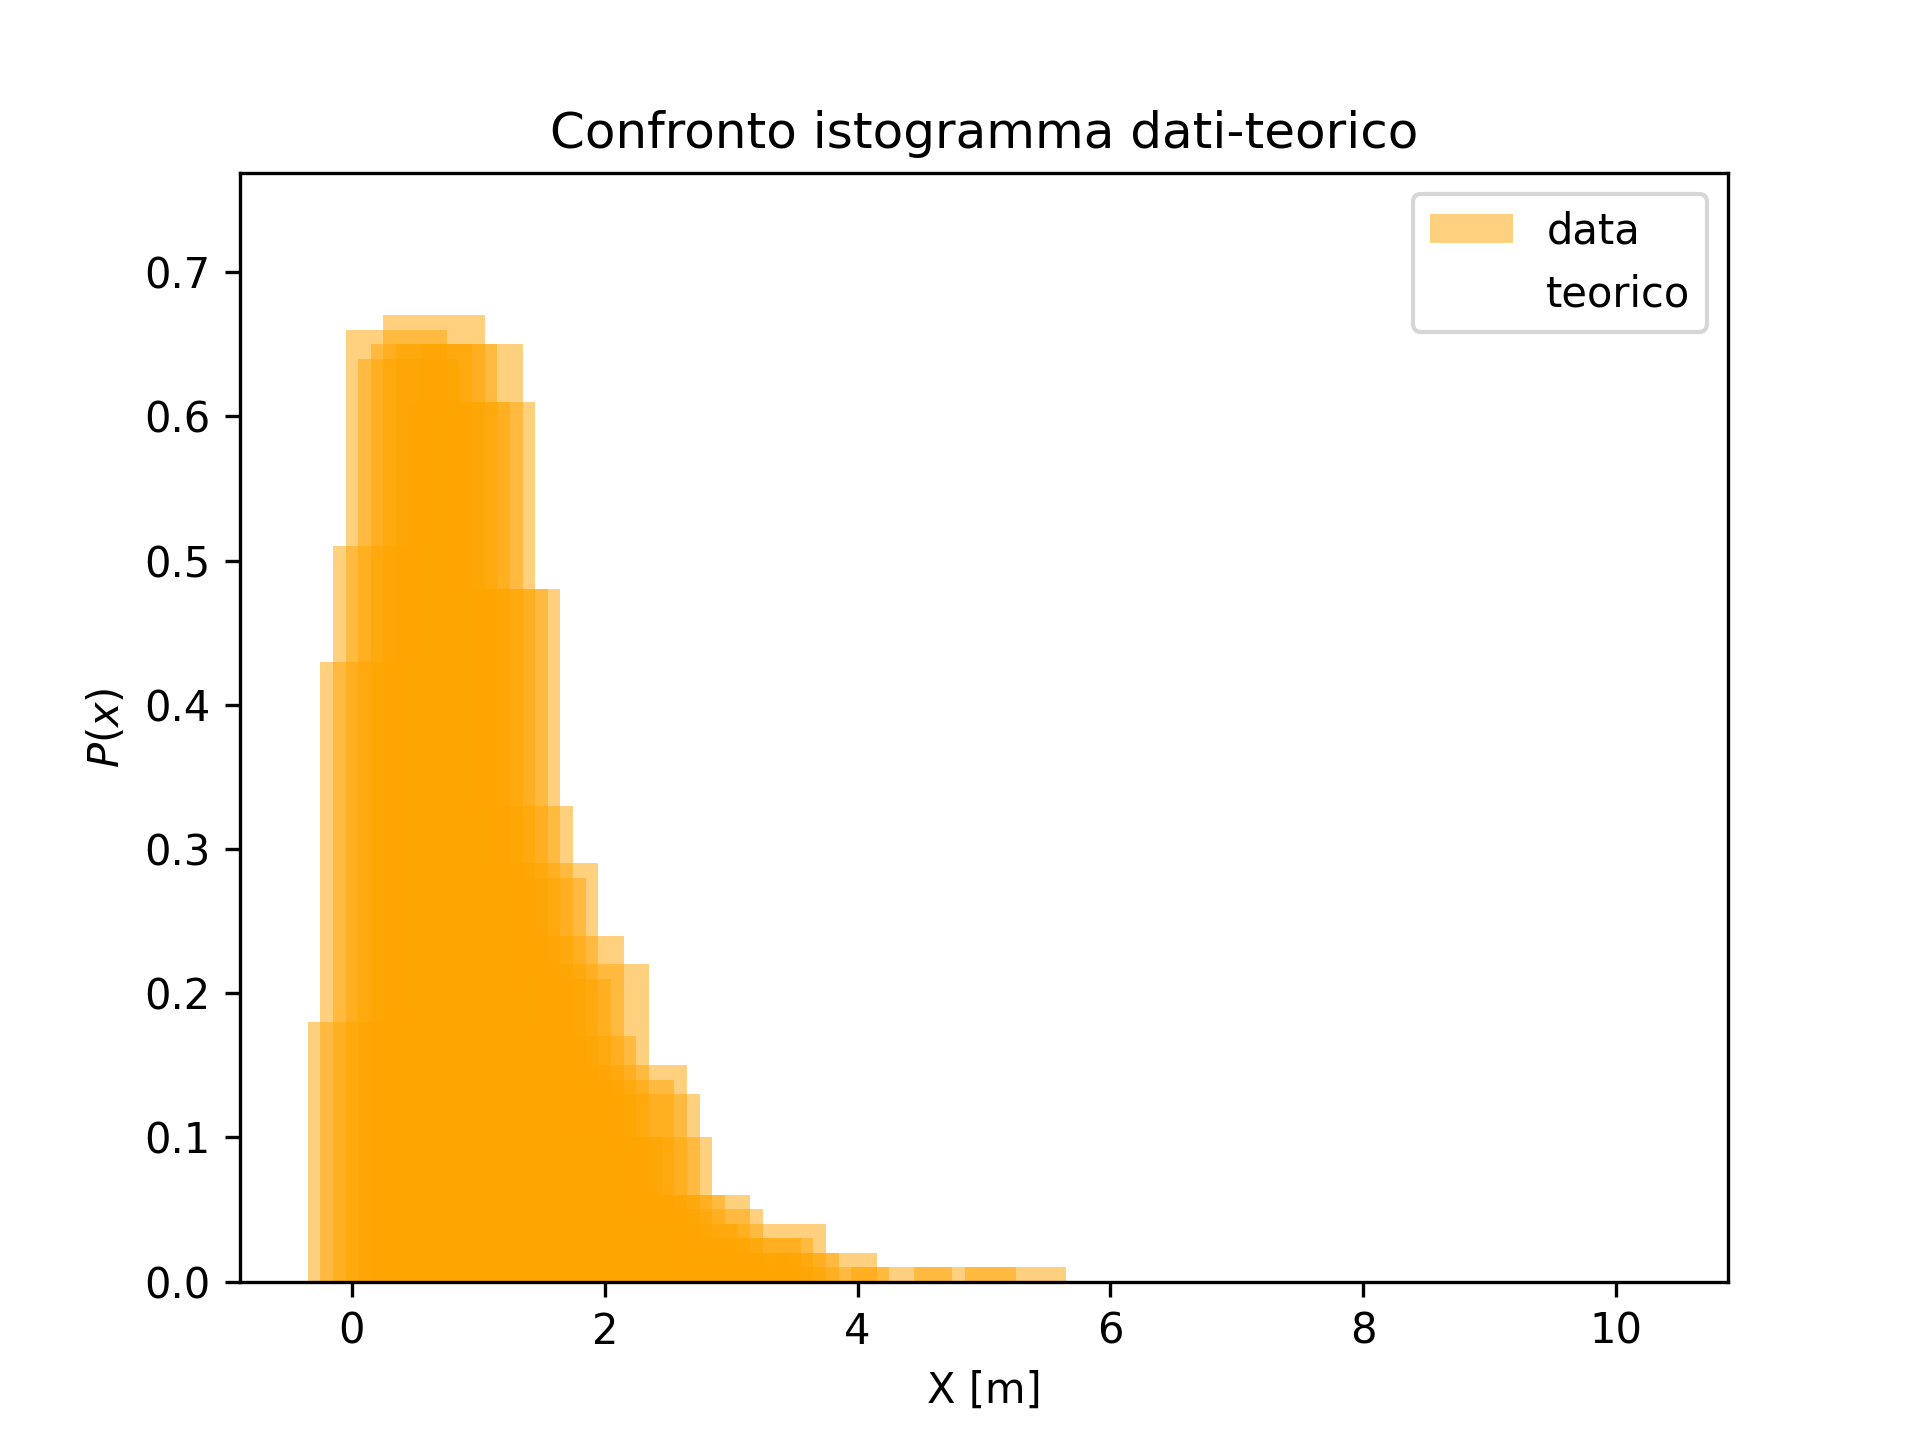
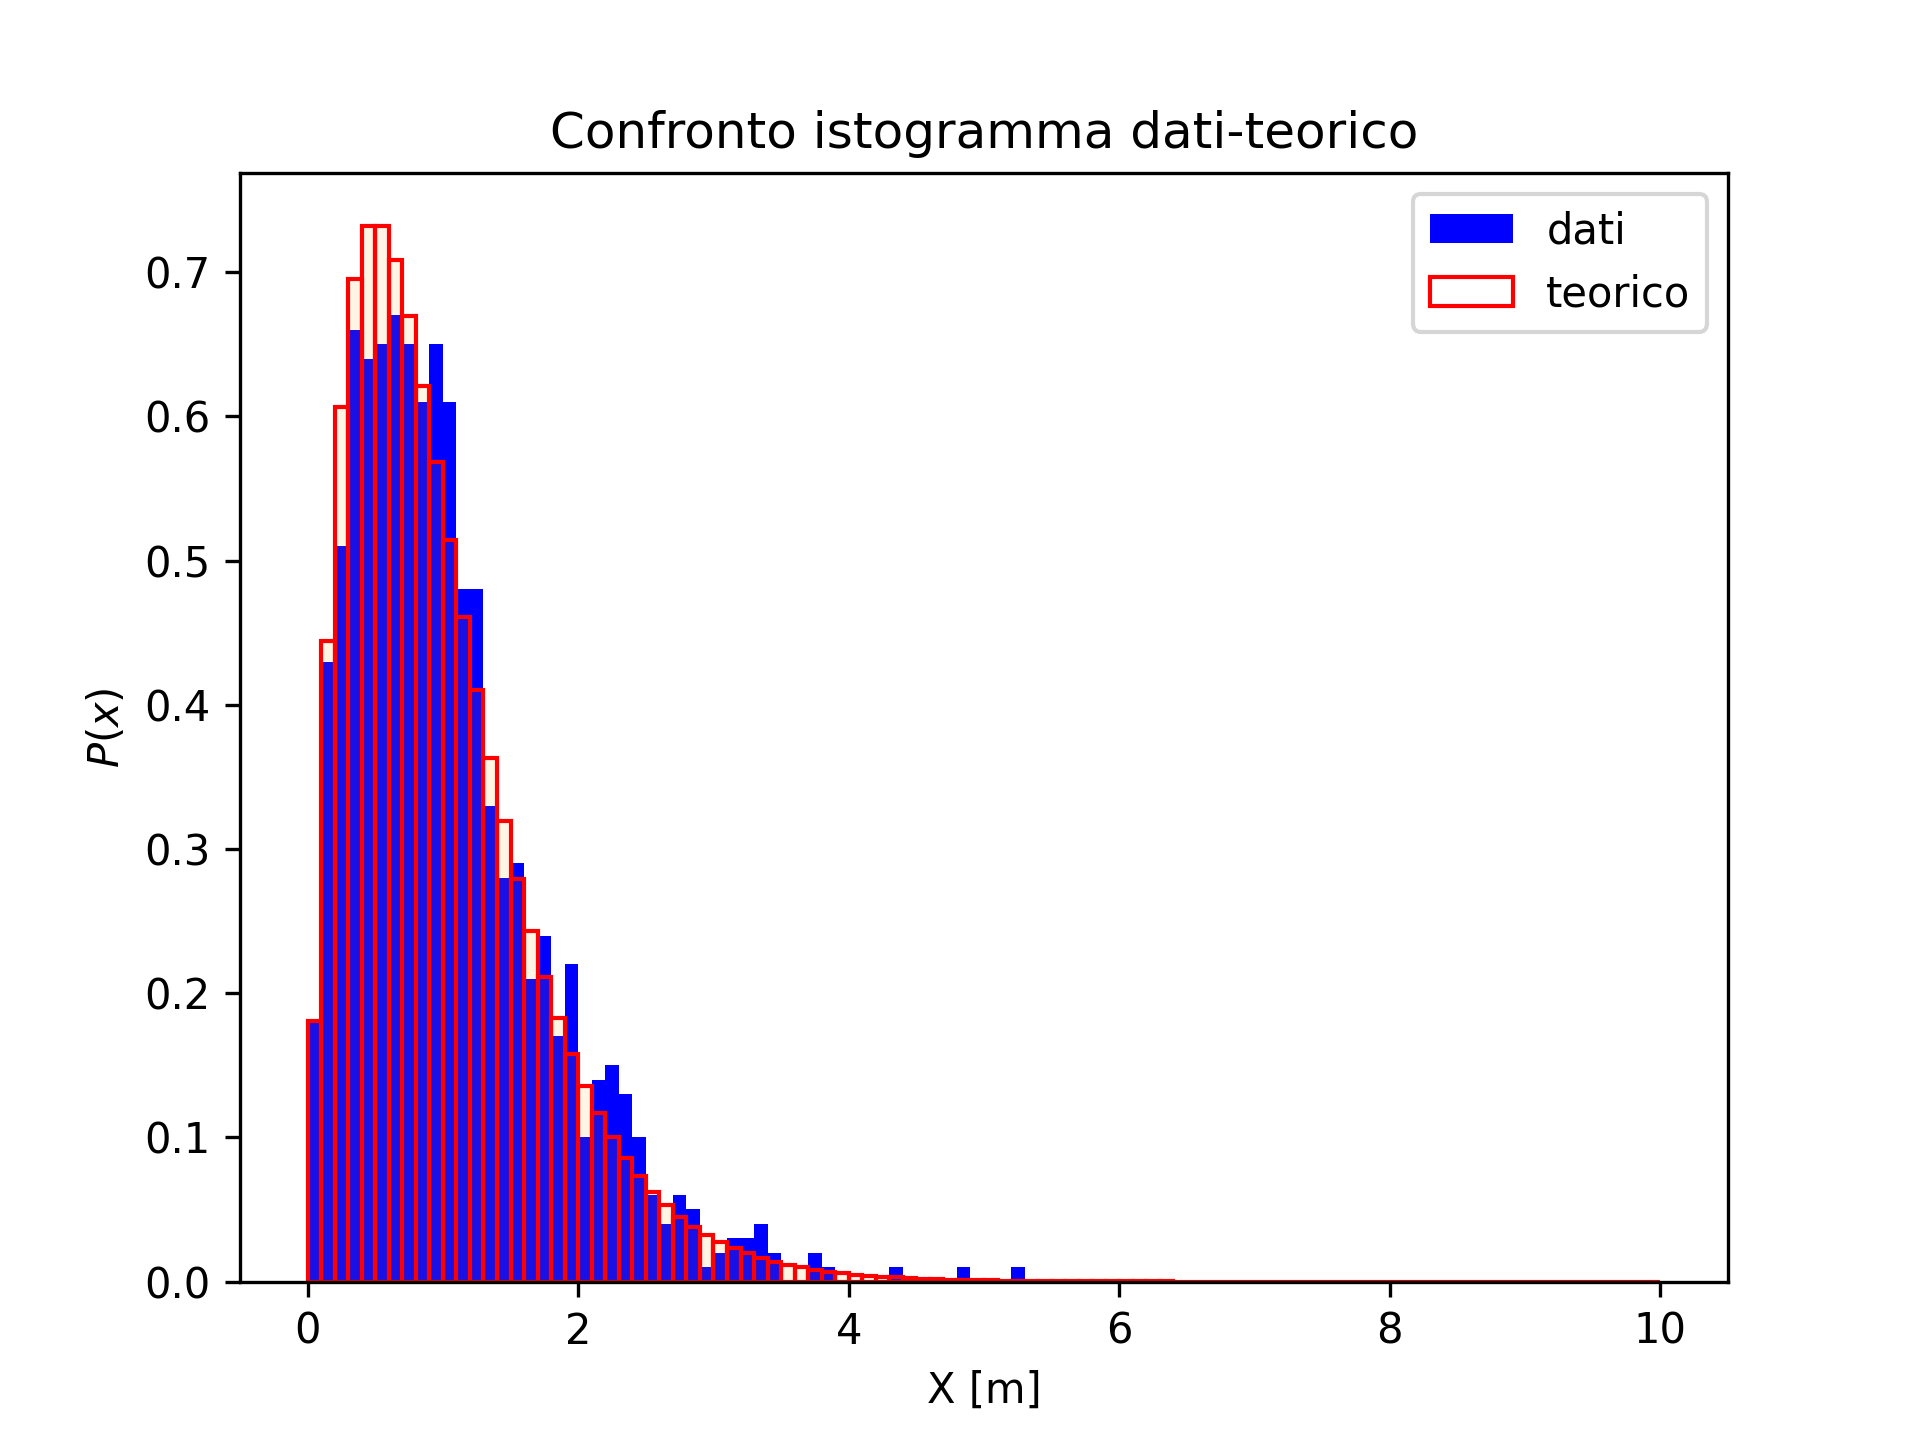
corretto montecarlo

diff --git a/MonteCarlo/montecarlo.c b/MonteCarlo/montecarlo.c
@@ -2,9 +2,12 @@
 #include <time.h>
 #include <stdio.h>
 #include <math.h>
+#include <fcntl.h>
+#include <unistd.h>
 
 #define TRUE  1
 #define FALSE 0
+#define VERBOSE
 
 #define Xmax 10
 #define Nmin 1000
@@ -50,14 +53,21 @@ int main(int narg, char * * argv){
 		printf("Reinsert N value:\t");
 		scanf("%i",&N);
 	}
-	srand48(time(NULL));
+
+	int urandom_fd=open("/dev/urandom",O_RDONLY);
+	unsigned long seed;
+	(urandom_fd!=-1)? read(urandom_fd,&seed,sizeof(long)) : (seed=time(NULL));	
+	srand48(seed);
+
 	double x,P;
 	int histo[M]={0};
 	double histoNorm[M];
 	for(int i=0; i<N; i++){
 		x=hitAndMiss(lam);
 		P=pdist(lam,x);
-		if(i<TOprint) printf("%.5lf %.5lf\n",x,P);
+		#ifdef VERBOSE
+			if(i<TOprint) printf("%.5lf %.5lf\n",x,P);
+		#endif
 		for(int j=0; j<M; j++){
 			if(x>=j*dx && x<(j+1)*dx){
 			       	histo[j]++;

diff --git a/MonteCarlo/montecarlo.py b/MonteCarlo/montecarlo.py
@@ -7,8 +7,10 @@ fig,ax=plt.subplots()
 ax.set_title("Confronto istogramma dati-teorico")
 ax.set_xlabel("X [m]")
 ax.set_ylabel("$P(x)$")
-ax.bar(X,Y,label="data",color="orange",alpha=0.5)
-ax.bar(X,Yth,label="teorico",alpha=0,edgecolor="red")
+width=(X[1]-X[0])
+ax.bar(X,Y,label="dati",color="blue",width=width)
+ax.bar(X,Yth,color="orange",alpha=0.1,width=width)
+ax.bar(X,Yth,label="teorico",fill=False,edgecolor="red",width=width)
 ax.legend()
 fig.savefig("istogramma.png",dpi=300)
 
